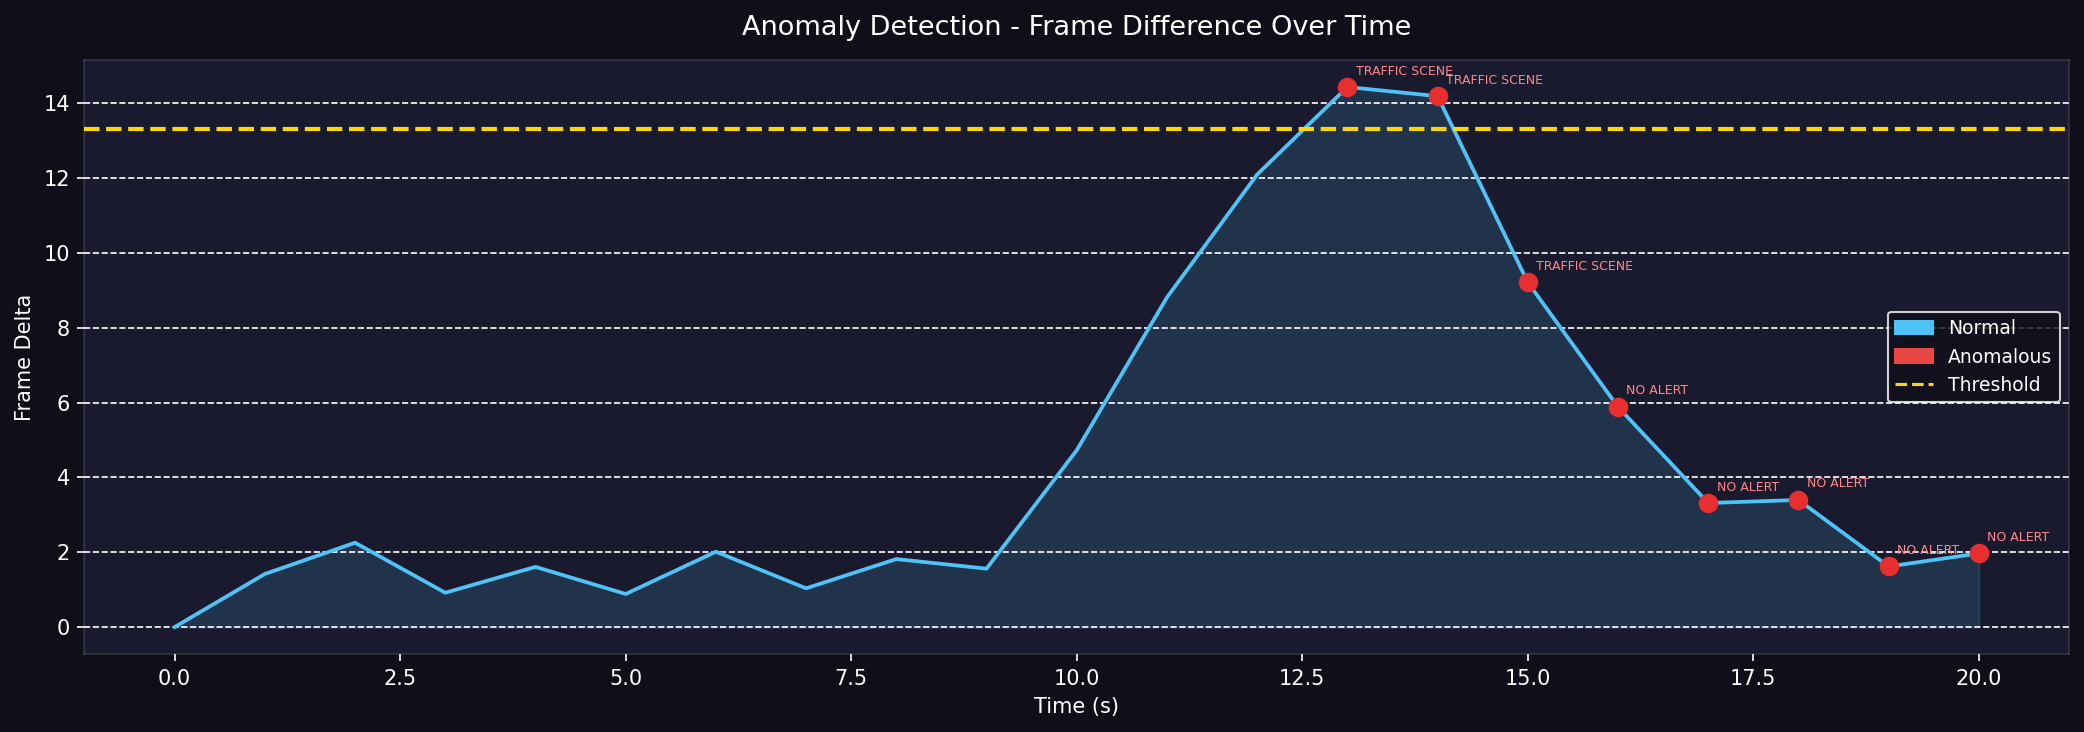
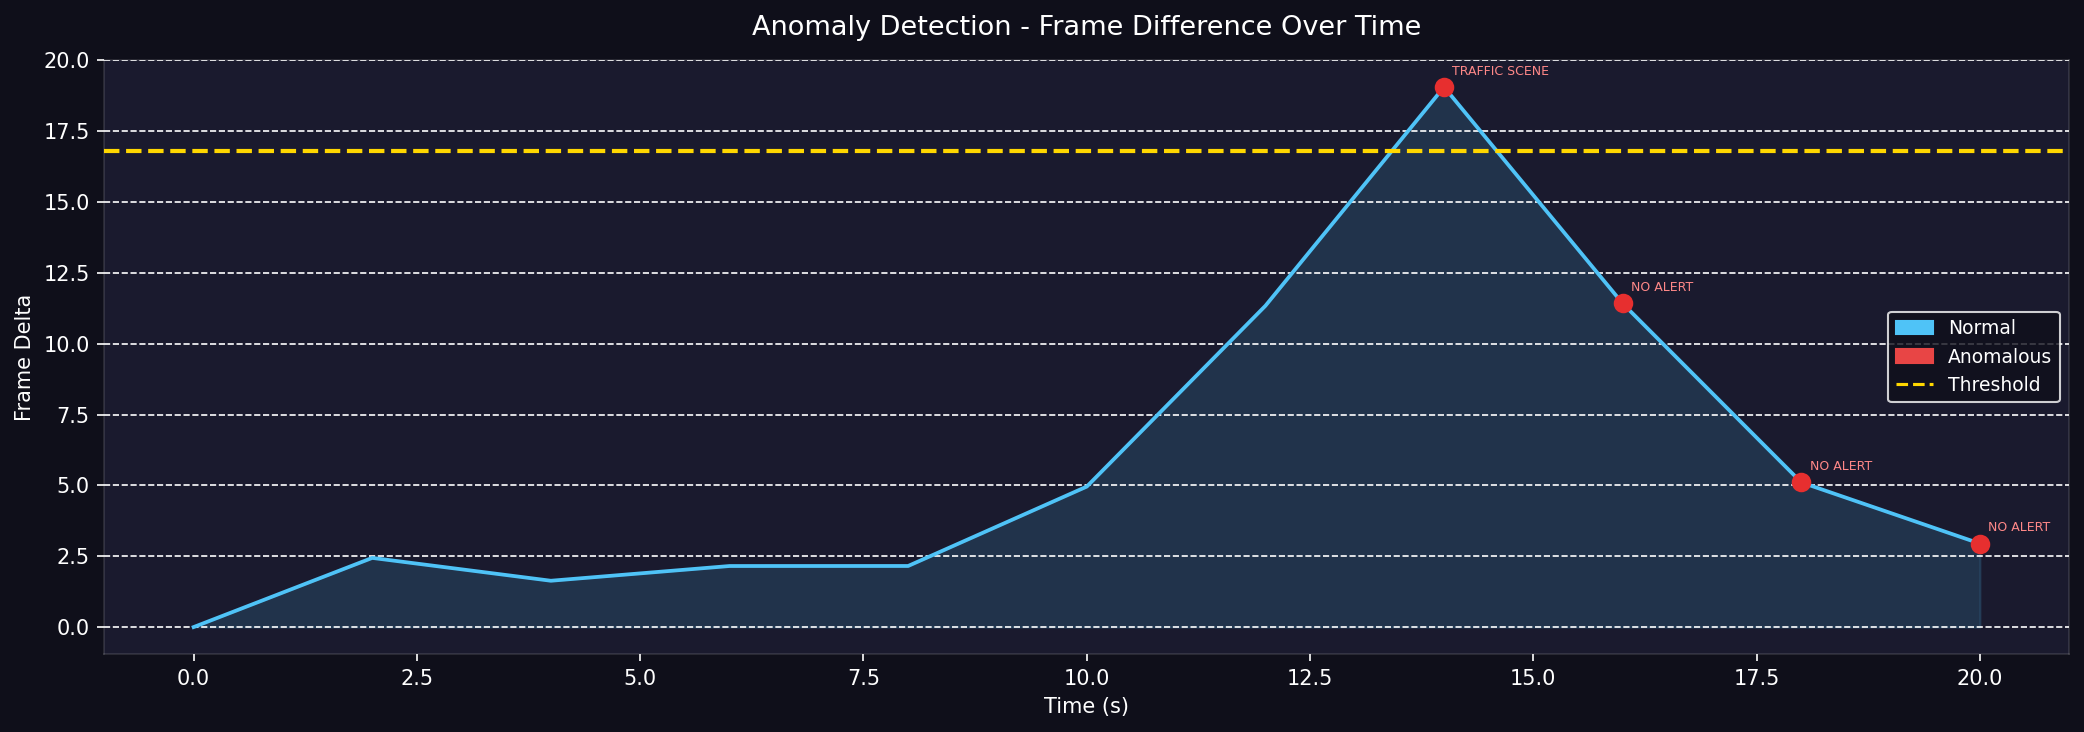
Automatic update: frames, report.json, images, code

diff --git a/video_anomaly_captioning.py b/video_anomaly_captioning.py
@@ -1,15 +1,11 @@
 """
 Video Anomaly Detection & Captioning
--------------------------------------
-- Extracts frames at 1 FPS (configurable)
-- Detects anomalies via frame difference + SSIM
-- Captions EVERY frame with BLIP using anomaly-focused prompts
-- For anomaly frames: uses a dedicated "what happened?" prompt
-- Maps captions -> alerts via expanded prompt engineering
-- Colored terminal output: RED = ANOMALY, GREEN = Normal
-- Saves: frames/, collisions/, report.json, grid, timeline chart
-- Clears output folders on each run
 """
+# Extracts frames at 1 FPS (configurable), detects anomalies via frame diff + SSIM
+# Captions every frame with BLIP, using anomaly-focused prompts ("what happened?" for anomalies)
+# Maps captions to alerts via expanded prompt engineering
+# Terminal output: RED = ANOMALY, GREEN = Normal
+# Saves frames/, collisions/, report.json, grid, timeline chart; clears output folders on each run
 
 import subprocess, sys, os
 import json, math, shutil, warnings
@@ -32,7 +28,7 @@ try:
 except ImportError:
     BLIP_AVAILABLE = False
 
-# ── Configuration ────────────────────────────────────────────────────────────────
+# Configuration 
 VIDEO_PATH  = r"input_video.mp4"
 OUTPUT_DIR  = "output_video"
 FRAMES_DIR  = os.path.join(OUTPUT_DIR, "frames")
@@ -41,7 +37,7 @@ REPORT_PATH = os.path.join(OUTPUT_DIR, "report.json")
 CHART_PATH  = os.path.join(OUTPUT_DIR, "anomaly_timeline.png")
 GRID_PATH   = os.path.join(OUTPUT_DIR, "all_frames_grid.jpg")
 
-EXTRACT_FPS = 1.0 #!!!!!!!!!!!!!!!!!!
+EXTRACT_FPS = 0.5 #!!!!!!!!!!!!!!!!!!
 MAX_FRAMES  = 60
 CHUNK_SIZE  = 10
 DIFF_SIZE   = (96, 96)
@@ -54,7 +50,7 @@ RESET  = "\033[0m"
 BOLD   = "\033[1m"
 DIM    = "\033[2m"
 
-# ── Prompts ───────────────────────────────────────────────────────────────────────
+# Prompts 
 CAPTION_PROMPT         = "a traffic camera photo of"
 ANOMALY_CAPTION_PROMPT = "a traffic camera showing an accident where"
 
@@ -67,7 +63,7 @@ VQA_SEVERITY   = "how severe is the incident in this image? answer: minor, moder
 # Respostas válidas para severidade
 VALID_SEVERITIES = {"minor", "moderate", "severe"}
 
-# ── Alert rules (order = priority, first match wins) ─────────────────────────────
+#  Alert rules (order = priority, first match wins) 
 ALERT_RULES = [
     # CRITICAL
     (["crash", "collision", "collide", "accident", "wreck", "smash", "impact",
@@ -115,6 +111,8 @@ ALERT_RULES = [
      "TRAFFIC SCENE",         "INFO"),
 ]
 
+# Matches keywords in the caption to return an alert label and severity
+# or "NO ALERT" if none found
 def map_caption_to_alert(caption: str):
     cap = caption.lower()
     for keywords, label, severity in ALERT_RULES:
@@ -123,7 +121,9 @@ def map_caption_to_alert(caption: str):
     return "NO ALERT", "NORMAL"
 
 
-# ── BLIP helpers ──────────────────────────────────────────────────────────────────
+#BLIP helpers
+# Loads the BLIP model and processor, selects GPU/CPU
+# or returns None if BLIP is unavailable
 def load_blip():
     if not BLIP_AVAILABLE:
         return None, None, None
@@ -139,6 +139,8 @@ def load_blip():
     return processor, model, device
 
 
+# Generates a caption for an image using the BLIP model
+# optionally considering a prompt, and returns the caption text
 def blip_caption(img, processor, model, device, prompt=None) -> str:
     with torch.no_grad():
         if prompt:
@@ -153,7 +155,8 @@ def blip_caption(img, processor, model, device, prompt=None) -> str:
         text = text[len(prompt):].strip()
     return text
 
-
+# Uses the BLIP model to answer a question about an image and returns the response
+# or "n/a" if an error occurs
 def blip_vqa(img, processor, model, device, question: str) -> str:
     try:
         with torch.no_grad():
@@ -165,6 +168,8 @@ def blip_vqa(img, processor, model, device, question: str) -> str:
         return "n/a"
 
 
+# Extracts 'minor', 'moderate'
+# or 'severe' from a VQA response, returning 'n/a' if invalid or the question is echoed
 def parse_severity(raw: str) -> str:
     """
         Extracts only 'minor', 'moderate', or 'severe' from the VQA response.
@@ -176,6 +181,10 @@ def parse_severity(raw: str) -> str:
     return first_word if first_word in VALID_SEVERITIES else "n/a"
 
 
+# Analyzes a single video frame by answering core VQA questions, generating a caption,
+# and determining an alert label and severity
+# It adapts based on anomaly detection, accident/fire conditions, 
+# and overrides the results based on critical findings like "fall" or "wrong-way"
 def analyse_frame(img, processor, model, device, is_anomaly: bool):
     """
     Full VQA + captioning pipeline for one frame.
@@ -226,7 +235,7 @@ def analyse_frame(img, processor, model, device, is_anomaly: bool):
     return caption, alert_label, severity, vqa
 
 
-# ── Directory helpers ─────────────────────────────────────────────────────────────
+# Directory helpers 
 def clean_dirs():
     print(f"{YELLOW}[SETUP] Clearing output directories...{RESET}")
     for d in (FRAMES_DIR, ANOMALY_DIR):
@@ -237,6 +246,9 @@ def clean_dirs():
     print(f"  collisions/ -> {os.path.abspath(ANOMALY_DIR)}\n")
 
 
+# Extracts frames from a video at a specified frame rate (EXTRACT_FPS)
+# and returns them as a list of images with index and timestamp
+# Stops after reaching a maximum frame count (MAX_FRAMES) or the end of the video
 def extract_frames(video_path: str) -> list:
     cap = cv2.VideoCapture(video_path)
     if not cap.isOpened():
@@ -256,6 +268,10 @@ def extract_frames(video_path: str) -> list:
     return frames
 
 
+# Computes anomaly scores for frames
+# by calculating the difference and SSIM (Structural Similarity) between consecutive frames
+# Returns the differences, SSIM values, and thresholds based on the mean 
+# and standard deviation of these scores
 def compute_anomaly_scores(frames):
     diffs, ssims = [0.0], [1.0]
     prev   = np.array(frames[0]["image"].resize(DIFF_SIZE)).astype(np.float32)
@@ -271,7 +287,10 @@ def compute_anomaly_scores(frames):
             float(arr_d.mean() + 2 * arr_d.std()),
             float(arr_s.mean() - 2 * arr_s.std()))
 
-
+# Labels each frame as an anomaly or normal based on the difference
+# and SSIM scores compared to threshold values
+# Flags anomalies when the difference is high or SSIM is low, 
+# and resets if difference is low and SSIM is high
 def label_frames(frames, diffs, ssims, thr_d, thr_s):
     low_d, high_s = thr_d * 0.50, thr_s * 1.50
     anom_active = False
@@ -292,6 +311,8 @@ def label_frames(frames, diffs, ssims, thr_d, thr_s):
     return results
 
 
+# Saves a frame image with an "ANOMALY" label if flagged,
+# storing it in the appropriate directory
 def save_frame_image(frame_data, res, is_anomaly, caption="", alert=""):
     fname = f"frame_{res['frame_idx']:05d}_t{res['time_sec']:.2f}s.jpg"
     frame_data["image"].save(os.path.join(FRAMES_DIR, fname), quality=92)
@@ -306,6 +327,9 @@ def save_frame_image(frame_data, res, is_anomaly, caption="", alert=""):
     return fname
 
 
+# Creates and saves a grid of resized frame thumbnails with anomaly labels 
+# and additional information (time, difference, caption)
+# Each frame is displayed with a color-coded label indicating whether it's an anomaly or normal
 def save_grid(frames, frame_results, captions):
     N_COLS, TW, TH, LH = 5, 220, 135, 85
     n_rows = math.ceil(len(frames) / N_COLS)
@@ -338,6 +362,9 @@ def save_grid(frames, frame_results, captions):
     print(f"  Grid saved       -> {GRID_PATH}")
 
 
+# Plots and saves a timeline of frame differences over time,
+# marking anomalies with red dots and displaying the threshold line
+# Includes labels for normal and anomalous events, and saves the chart as an image
 def save_timeline(frame_results, thr_d):
     times = [r["time_sec"]   for r in frame_results]
     diffs = [r["difference"] for r in frame_results]
@@ -377,7 +404,7 @@ def save_timeline(frame_results, thr_d):
     print(f"  Timeline saved   -> {CHART_PATH}")
 
 
-# ── Main ──────────────────────────────────────────────────────────────────────────
+# Main
 def run():
     print(BOLD + "=" * 72 + RESET)
     print(BOLD + "  VIDEO ANOMALY DETECTION & CAPTIONING  (BLIP-large + VQA chain)" + RESET)
